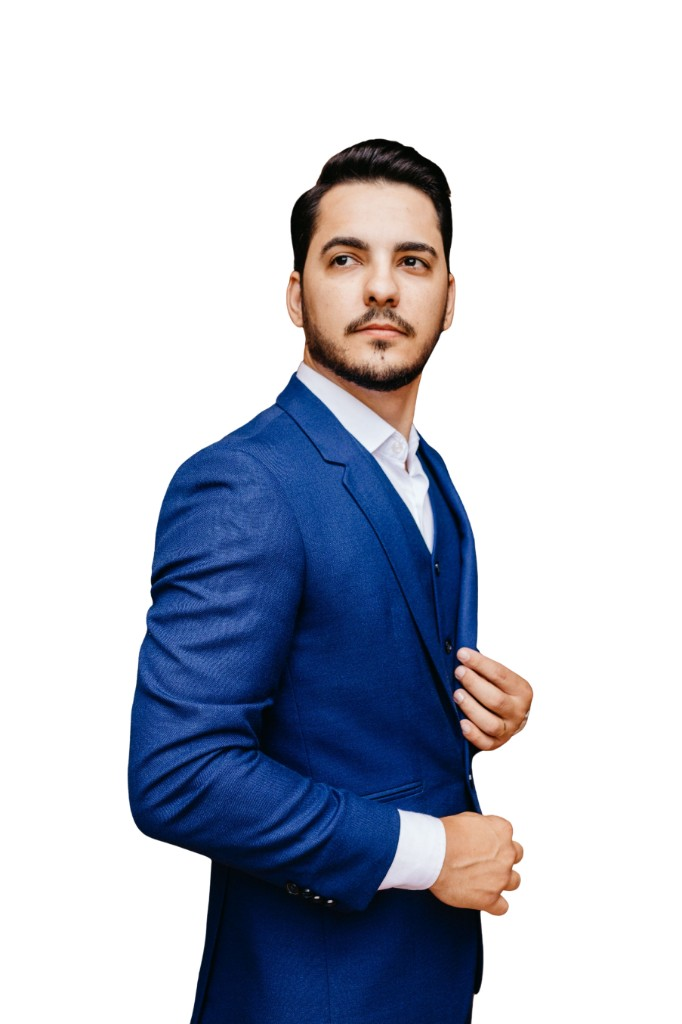
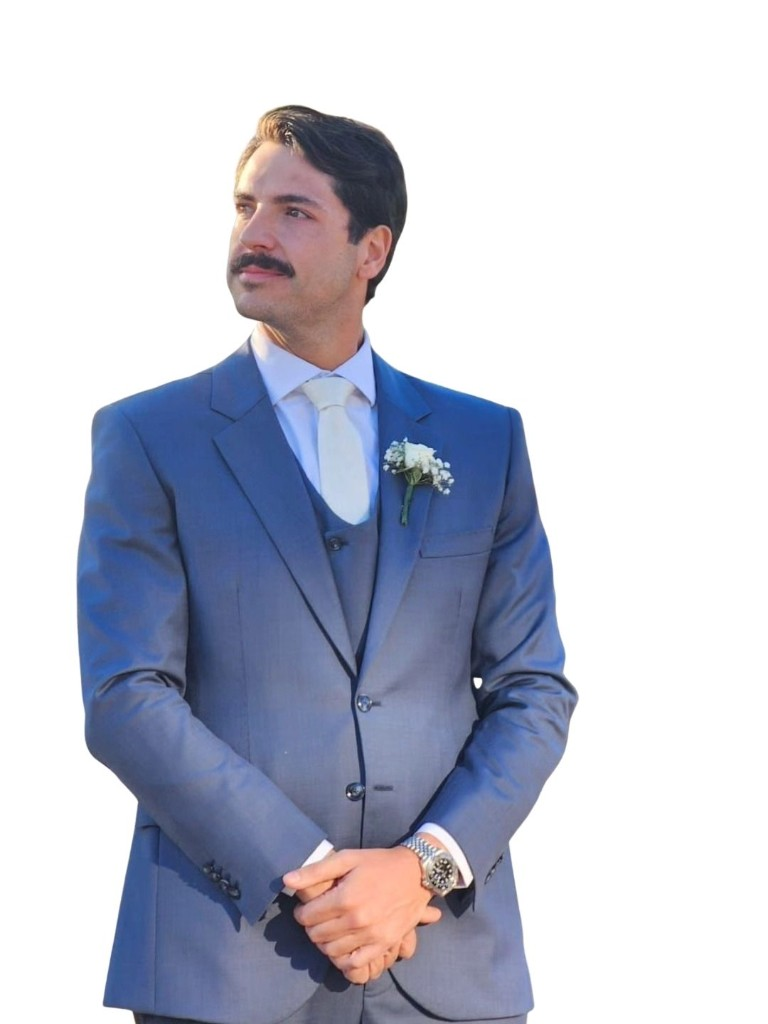
feat: atualiza fotos do hero, ocasiões e card de paletós na home

diff --git a/src/data/blog-covers.ts b/src/data/blog-covers.ts
@@ -2,7 +2,7 @@ import type { ImageMetadata } from 'astro';
 import tecidosNobres from '../assets/images/home/benefits/tecidos-nobres.webp';
 import sobreFoto from '../assets/images/home/sobre-foto.jpeg';
 import costumesImage from '../assets/images/home/products/costumes.jpeg';
-import paletosImage from '../assets/images/home/products/paletos.png';
+import paletosImage from '../assets/images/home/products/paletos.jpg';
 import ternosImage from '../assets/images/home/products/ternos.jpeg';
 
 export interface BlogCover {
@@ -21,7 +21,7 @@ const covers: Record<string, BlogCover> = {
 	},
 	'costume-vs-paleto-qual-escolher': {
 		src: paletosImage,
-		alt: 'Paletó azul texturizado com camisa branca, ajuste do botão na cintura',
+		alt: 'Homem de paletó azul-marinho sob medida, camisa clara e gravata, apoiado em mesa',
 	},
 	'quanto-custa-terno-sob-medida-sao-paulo': {
 		src: costumesImage,
